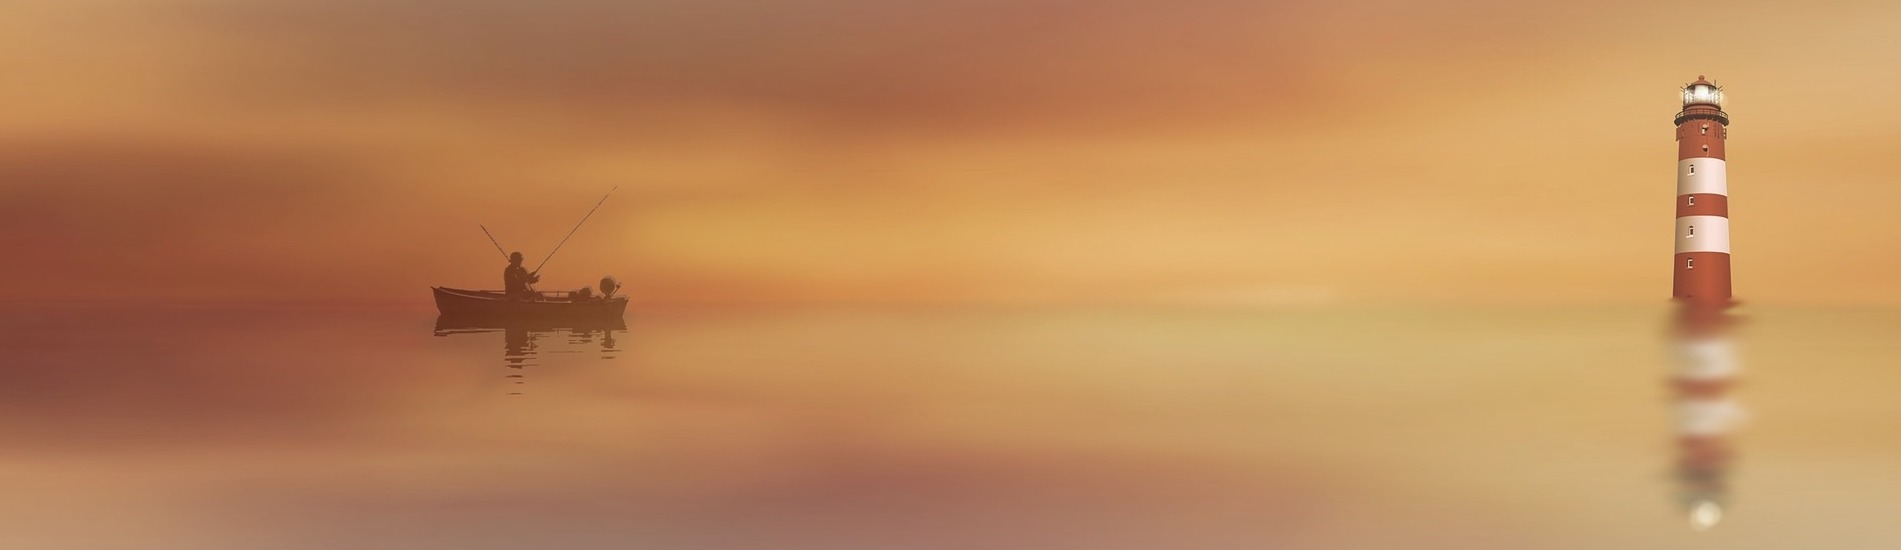
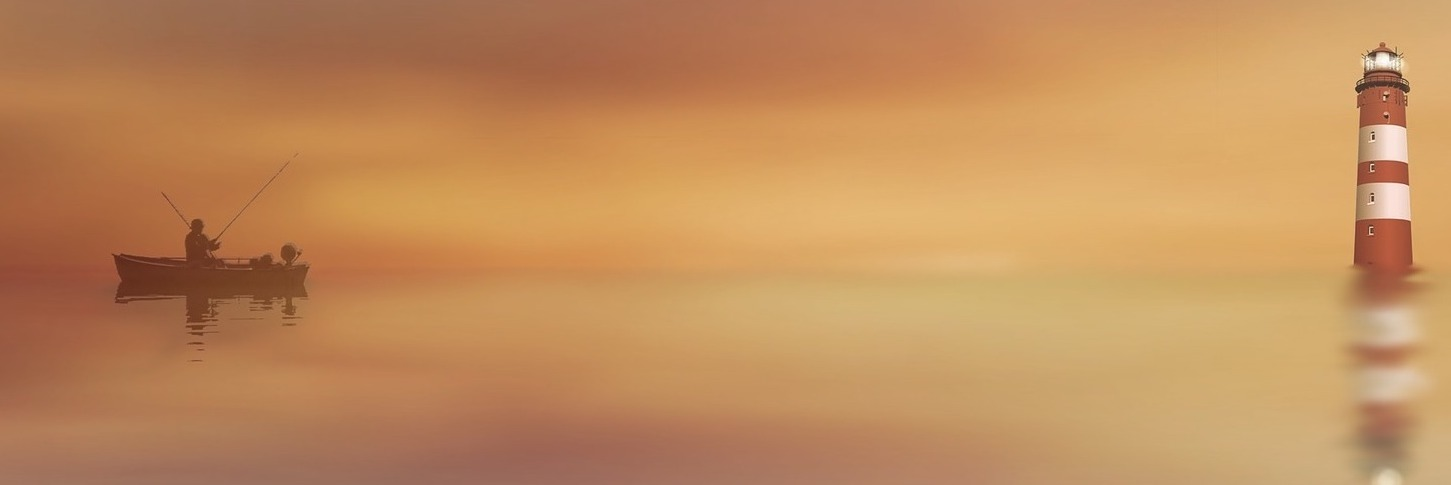
Site updated: 2019-06-04 15:05:41

diff --git a/css/main.css b/css/main.css
@@ -1816,7 +1816,7 @@ pre .javascript .function {
   width: 4px;
   height: 4px;
   border-radius: 50%;
-  background: #14fc98;
+  background: #ffcdff;
 }
 .feed-link,
 .chat {
@@ -2570,7 +2570,7 @@ embed {
   background-color: rgba(0,0,0,0.1);
 }
 .header {
-  background: url("http://ww2.sinaimg.cn/large/006tNc79ly1g3p37adv6yj31gt0fa75x.jpg");
+  background: url("http://ww4.sinaimg.cn/large/006tNc79ly1g3p4v2mrdsj314b0dhab7.jpg");
   background-size: cover;
 }
 .header-inner {
